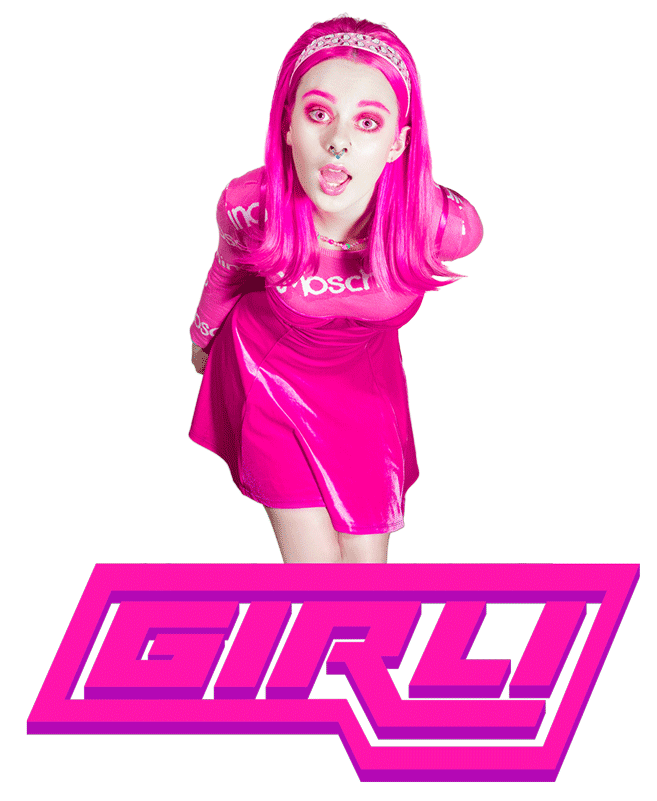
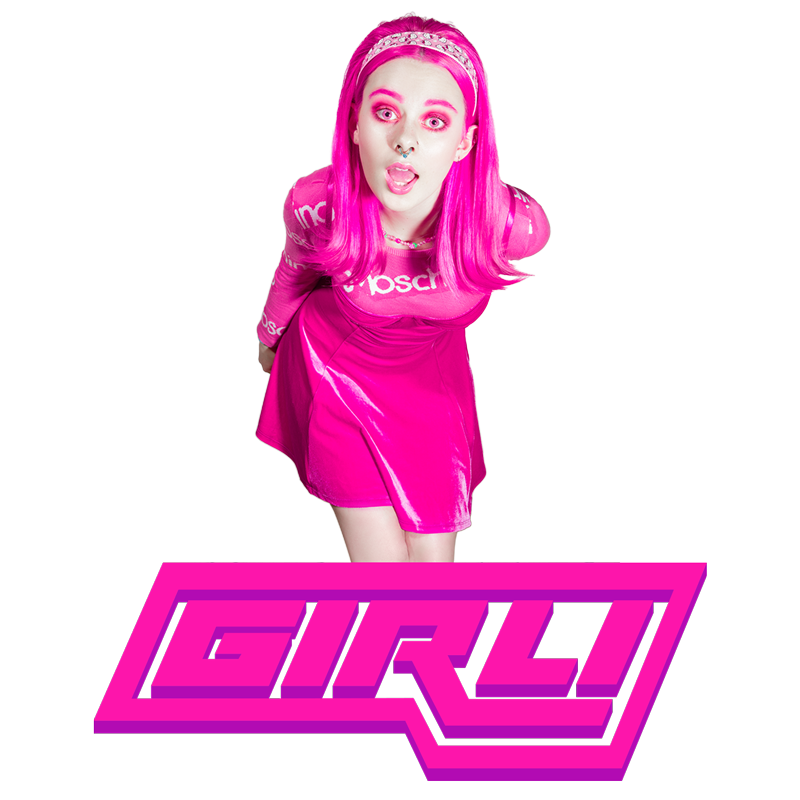
new backdrops

Changed region(s): [[0.274, 0.0, 0.761, 0.7188], [0.0304, 0.6875, 0.9741, 1.0]]

diff --git a/public/stylesheets/style.css b/public/stylesheets/style.css
@@ -51,7 +51,7 @@ body {
   left: 50%;
   transform: translateX(-50%) translateY(-50%);
   text-align: center;
-  background-color: rgba(255,255,255,0.75);
+  background-color: rgba(255,255,255,0.85);
   border: 3px solid #fc15ab;
   padding: 5px 20px;
   font-size: 1.5em;
@@ -81,7 +81,7 @@ body {
   width: 320px;  
   height: 100vh;
   /*background-color: rgba(0,0,0,0.8);*/
-  background-color: rgba(255,50,200,0.8);
+  background-color: rgba(255,50,100,0.5);
   position: relative;
   float: right;
   border-left: 2px solid white;
@@ -108,7 +108,7 @@ body {
   color: white;
   text-align: center;
   width: 100%;
-  line-height: 5vh;
+  line-height: 1.5em;
   position: absolute;
   font-size: 1.5em;
 }

diff --git a/public/javascripts/canvas.js b/public/javascripts/canvas.js
@@ -77,10 +77,9 @@ $(document).ready(function() {
    * Generate backdrops from images/backdrops/ directory
    **/
   var backdropPaths = [
-    "/images/backdrops/backdrop-1.png",
-    "/images/backdrops/backdrop-2.png",
-    "/images/backdrops/backdrop-3.png",
-    "/images/backdrops/backdrop-4.png"
+    "/images/backdrops/backdrop-1.jpg",
+    "/images/backdrops/backdrop-2.jpg",
+    "/images/backdrops/backdrop-3.jpg"
   ];
   var backdropContainer = $("#"+BACKDROP_CONTAINER_ID);
   
